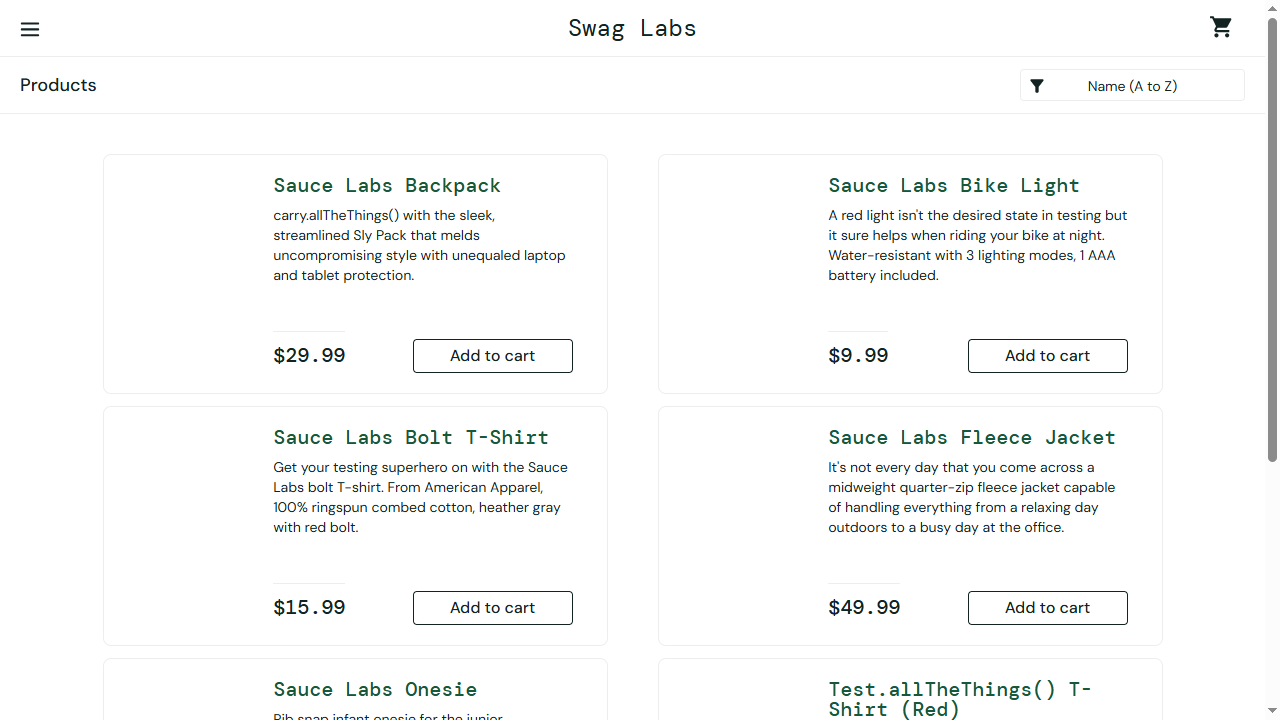
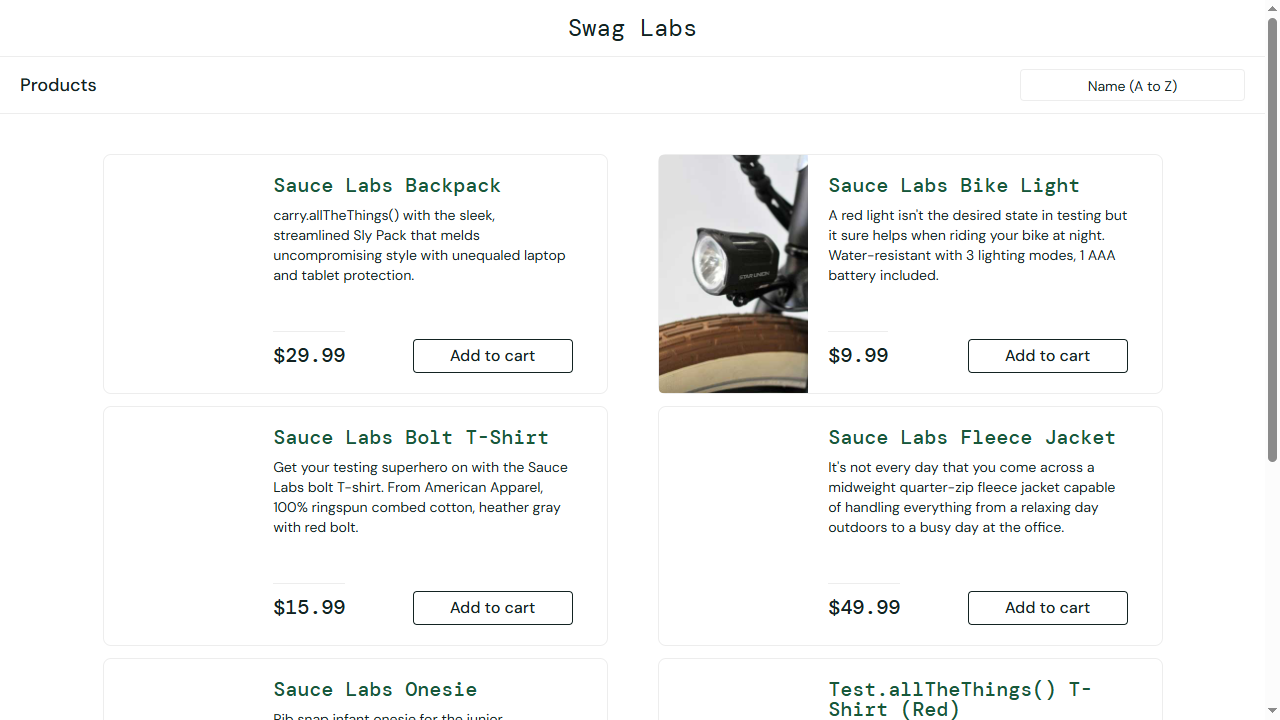
new

Changed region(s): [[0.5, 0.2139, 0.6562, 0.55], [0.9375, 0.0306, 0.9688, 0.0611], [0.0, 0.0306, 0.0312, 0.0611]]

diff --git a/Test_code/Test_code_2.py b/Test_code/Test_code_2.py
@@ -1,0 +1,15 @@
+from playwright.sync_api import sync_playwright
+def test_invalid_login():
+      with sync_playwright() as p:
+            browser=p.chromium.launch(headless=False)
+            page=browser.new_page()
+            page.goto("https://www.saucedemo.com/")             #1st step
+            page.fill("#user-name","student_123")
+            page.fill("#password","sauce_incorrect")
+            page.click("#login-button")
+            # assert page.locator("h3").inner_text() == "Epic sadface: Username and password do not match any user in this service"
+            assert "Epic sadface" in page.locator("h3").inner_text()
+            page.screenshot(path="Screenshots/screenshot1.png")
+            print("Login unsuccessful")
+            browser.close()
+

diff --git a/Test_code/Test_code_1.py b/Test_code/Test_code_1.py
@@ -11,3 +11,7 @@ def test_valid_login():
             page.screenshot(path="Screenshots/screenshot.png")
             print("Login successful")
             browser.close()
+
+
+
+